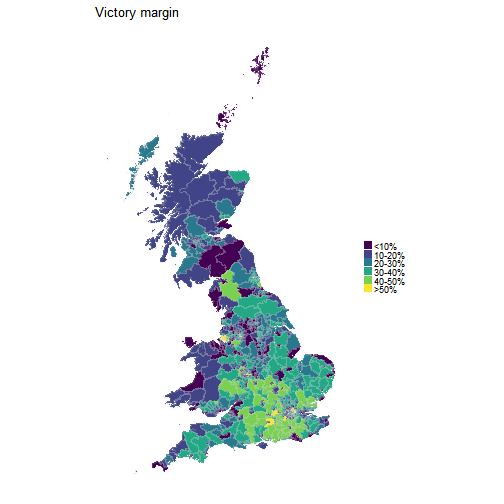
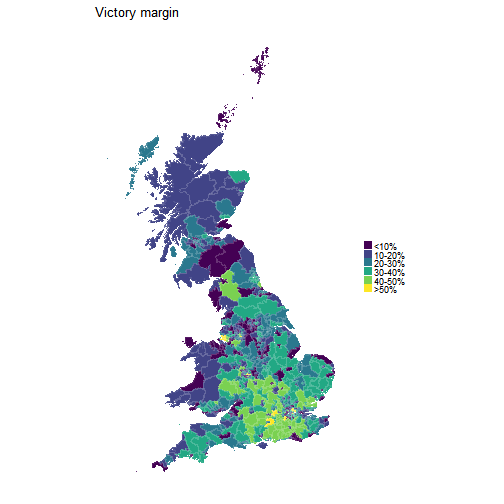
GB maps - better constituency borders
Made borders 1) white 2) more transparent to improve visibility on
smaller plots

diff --git a/_posts/2017-05-02-GB-electoral-maps.md b/_posts/2017-05-02-GB-electoral-maps.md
@@ -67,8 +67,8 @@ winner <- group_by(results_2015, `Constituency ID`) %>%
 colour_by_winner <- ggplot(data = winner,
          aes(x = long, y = lat, group = group)) +
   geom_polygon(aes(fill = `Party abbreviation`),
-          color = NA, size = .1) +
-  geom_path(colour = "lightgrey", size = 0.01, alpha = 0.2) +
+          color = NA) +
+  geom_path(colour = "white", size = 0.01, alpha = 0.1) +
   theme_minimal() +
   scale_fill_manual(values = party_palette, na.value = "slategrey") +
   theme(panel.grid = element_blank(),
@@ -94,7 +94,7 @@ colour_by_turnout <- ggplot(data = winner,
                             aes(x = long, y = lat, group = group)) +
   geom_polygon(aes(fill = turnout_bin),
           color = NA, size = .1) +
-  geom_path(colour = "lightgrey", size = 0.01, alpha = 0.2) +
+  geom_path(colour = "white", size = 0.01, alpha = 0.1) +
   theme_minimal() +
   scale_fill_viridis(discrete = TRUE)+
   theme(panel.grid = element_blank(),
@@ -119,7 +119,7 @@ winner$share_bin <- cut(winner$`Share (%)`, breaks = c(0, 30, 40, 50, 60, 70, 80
 colour_by_share <- ggplot(data = winner, aes(x = long, y = lat, group = group)) +
   geom_polygon(aes(fill = share_bin),
           color = NA, size = .2)+
-  geom_path(colour = "lightgrey", size = 0.01, alpha = 0.2) +
+  geom_path(colour = "white", size = 0.01, alpha = 0.1) +
   coord_equal(1) +
   scale_fill_viridis(discrete = TRUE) +
   theme_minimal() +
@@ -153,7 +153,7 @@ winner_lead$Margin_bin <- cut(winner_lead$Margin, breaks = c(0,10, 20, 30, 40, 5
 
 colour_by_lead <- ggplot(data = winner_lead, aes(x = long, y = lat, group = group))+
   geom_polygon(aes(fill = Margin_bin), color = NA,  size = .2) +
-  geom_path(colour = "lightgrey", size = 0.01, alpha = 0.2) +
+  geom_path(colour = "white", size = 0.01, alpha = 0.1) +
   coord_equal(1) +
   scale_fill_viridis(discrete=TRUE) +
   theme_minimal()+
